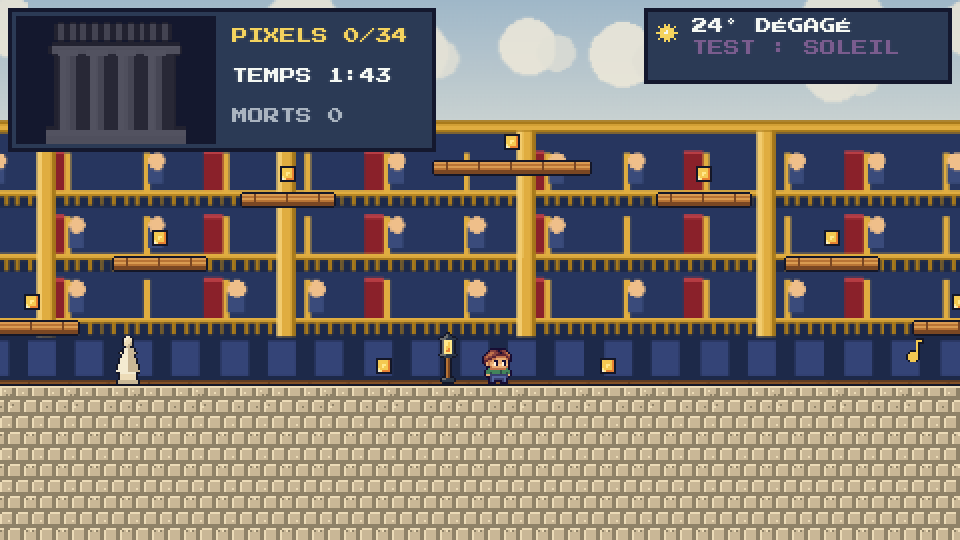
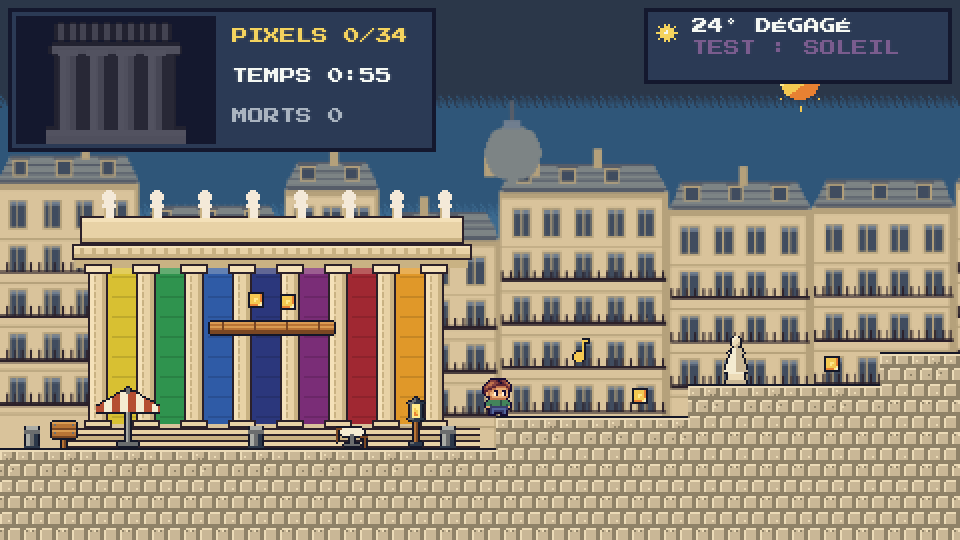
Pommeraye : boutiques (boulangerie, vêtements, chaussettes, chapeaux, sacs), tapis rouge, niveau inférieur sous les ouvertures ; Graslin : façade aux toiles colorées, fontaine, bornes, portes de l'Opéra

diff --git a/js/systems/LevelArt.js b/js/systems/LevelArt.js
@@ -587,7 +587,7 @@ GP.LevelArt = (function () {
    * murs ocre et verrière à nervures de métal tout en haut. Dessiné d'après des vues du passage consultées sur Wikipédia (référence uniquement).
    */
   function drawFondPommeraye() {
-    var w = 480, h = 236, o = PA.canvas(w, h), ctx = o.ctx, k = '#2b2230', i, x, n;
+    var w = 480, h = 272, o = PA.canvas(w, h), ctx = o.ctx, k = '#2b2230', i, x, n;
     var mur = '#d6ae6e', murO = '#b88c52', murC = '#e8c98c', arcO = '#6b4a2f', arcL = '#f4d9a0', fer = '#3b3040', pierre = '#eae6dc', pierreO = '#b8b2a4';
     R(ctx, 0, 0, w, h, mur);
     var verre = ctx.createLinearGradient(0, 0, 0, 38); verre.addColorStop(0, '#cfe6f6'); verre.addColorStop(1, '#a9cde6');
@@ -615,6 +615,9 @@ GP.LevelArt = (function () {
       R(ctx, 0, bot - 6, w, 2, k); for (x = 0; x < w; x += 6) R(ctx, x, bot - 12, 2, 6, fer);                  // balustrade de fer
       R(ctx, 0, bot - 12, w, 2, fer); R(ctx, 0, bot - 4, w, 4, murO);
     });
+    // niveau inférieur du passage, visible par les ouvertures du plancher : sol de dalles sombres, devantures éclairées et lampes
+    R(ctx, 0, 236, w, 36, '#4a2a22'); for (x = 0; x < w; x += 24) { R(ctx, x, 236, 12, 12, '#5d352b'); R(ctx, x + 12, 248, 12, 12, '#5d352b'); R(ctx, x, 260, 12, 12, '#5d352b'); }
+    R(ctx, 0, 234, w, 3, k); for (x = 12; x < w; x += 60) { R(ctx, x, 238, 26, 18, '#f4d9a0'); R(ctx, x, 238, 26, 3, '#c0453a'); R(ctx, x + 2, 244, 22, 10, '#fff3c8'); }   // vitrines allumées en contrebas
     return o.cv;
   }
   /** Façade d'immeuble (hôtel d'armateur de Feydeau, immeubles de la place Graslin) : pierre claire, fenêtres, balcons de fer, mascarons, toit d'ardoise à lucarnes. */
@@ -944,6 +947,64 @@ GP.LevelArt = (function () {
     R(ctx, 34, 13, 20, 3, '#6f7684'); R(ctx, 41, 14, 6, 2, k);                                                      // chariot du crochet
     return o.cv;
   }
+  /** Façade de boutique du passage (64×56) : auvent rayé, enseigne avec une icône, vitrine et porte. kind : 'boulangerie', 'chaussettes' ou 'sacs'. */
+  function drawBoutique(kind) {
+    var o = PA.canvas(64, 56), ctx = o.ctx, k = '#2b2230', i;
+    var C = { boulangerie: ['#c0453a', '#f4ecd0', '#8a5a30'], chaussettes: ['#3f62b8', '#f4f4fa', '#2f4a96'], sacs: ['#3f8a4f', '#f4ecd0', '#2e6a3a'], vetements: ['#8b4fb8', '#f4ecd0', '#5e3a8a'], chapeaux: ['#e8873a', '#f4f4fa', '#9a5a20'] }[kind];
+    R(ctx, 0, 0, 64, 56, k); R(ctx, 1, 1, 62, 55, '#e8d6a8');                                                     // cadre de pierre
+    R(ctx, 3, 3, 58, 11, C[2]); R(ctx, 3, 3, 58, 2, k); R(ctx, 3, 12, 58, 2, k);                                  // enseigne
+    if (kind === 'boulangerie') { R(ctx, 8, 6, 14, 4, '#e8b24a'); R(ctx, 8, 6, 14, 1, '#f4d060'); for (i = 0; i < 3; i++) R(ctx, 11 + i * 4, 7, 1, 2, '#8a5a30'); R(ctx, 32, 5, 4, 6, '#d89a4a'); R(ctx, 36, 6, 4, 5, '#e8b24a'); R(ctx, 40, 5, 4, 6, '#d89a4a'); }   // baguette et croissants
+    else if (kind === 'chaussettes') { [[10, '#c0453a'], [26, '#f4d35e'], [42, '#3fbfb0']].forEach(function (s) { R(ctx, s[0], 5, 4, 7, s[1]); R(ctx, s[0], 10, 8, 3, s[1]); R(ctx, s[0], 6, 4, 1, '#f4f4fa'); R(ctx, s[0], 8, 4, 1, '#f4f4fa'); }); }   // chaussettes rayées
+    else if (kind === 'vetements') { [[8, '#c0453a'], [26, '#3fbfb0'], [44, '#f4d35e']].forEach(function (s) { R(ctx, s[0], 5, 3, 3, s[1]); R(ctx, s[0] + 9, 5, 3, 3, s[1]); R(ctx, s[0] + 3, 6, 6, 6, s[1]); R(ctx, s[0] + 1, 8, 10, 1, '#f4f4fa'); }); }   // chemises et robes
+    else if (kind === 'chapeaux') { [[8, '#2b2e3a'], [27, '#c0453a'], [46, '#f4d35e']].forEach(function (s) { R(ctx, s[0] + 3, 4, 8, 5, s[1]); R(ctx, s[0], 9, 14, 2, s[1]); R(ctx, s[0] + 3, 8, 8, 1, '#f4f4fa'); }); }   // chapeaux
+    else { [[10, '#c0453a'], [28, '#f4d35e'], [46, '#3f62b8']].forEach(function (s) { R(ctx, s[0], 7, 9, 5, s[1]); R(ctx, s[0] + 2, 4, 1, 3, k); R(ctx, s[0] + 6, 4, 1, 3, k); R(ctx, s[0] + 2, 4, 5, 1, k); }); }   // sacs à main
+    for (i = 0; i < 8; i++) { R(ctx, 3 + i * 8, 14, 8, 8, i % 2 ? C[1] : C[0]); R(ctx, 3 + i * 8, 21, 8, 2, k); }   // auvent rayé
+    R(ctx, 5, 24, 36, 30, k); R(ctx, 6, 25, 34, 28, '#fff3c8'); R(ctx, 6, 25, 34, 3, '#fffbe8');                    // vitrine éclairée
+    if (kind === 'boulangerie') { for (i = 0; i < 4; i++) { R(ctx, 8 + i * 8, 38, 6, 3, '#c98a42'); R(ctx, 8 + i * 8, 37, 6, 1, '#e8b870'); } R(ctx, 7, 44, 32, 2, '#8a5a30'); for (i = 0; i < 5; i++) { R(ctx, 8 + i * 6, 40, 4, 4, '#d89a4a'); } }
+    else if (kind === 'vetements') { for (i = 0; i < 4; i++) { var vc = ['#c0453a', '#3fbfb0', '#f4d35e', '#8b6bb8'][i]; R(ctx, 9 + i * 8, 28, 2, 3, '#7a5a3a'); R(ctx, 8 + i * 8, 30, 4, 12, vc); R(ctx, 7 + i * 8, 40, 6, 6, vc); } R(ctx, 7, 46, 32, 2, '#8a5a30'); }   // mannequins en robes
+    else if (kind === 'chapeaux') { for (i = 0; i < 4; i++) { var hc = ['#2b2e3a', '#c0453a', '#3f62b8', '#f4d35e'][i]; R(ctx, 10 + i * 8, 34, 5, 4, hc); R(ctx, 8 + i * 8, 38, 9, 2, hc); R(ctx, 12 + i * 8, 40, 1, 6, '#7a5a3a'); } R(ctx, 7, 46, 32, 2, '#8a5a30'); }   // chapeaux sur des présentoirs
+    else if (kind === 'chaussettes') { for (i = 0; i < 5; i++) { var cc = ['#c0453a', '#3f62b8', '#f4d35e', '#3fbfb0', '#8b6bb8'][i]; R(ctx, 8 + i * 6, 30, 3, 8, cc); R(ctx, 8 + i * 6, 35, 5, 3, cc); } R(ctx, 7, 46, 32, 2, '#8a5a30'); }
+    else { for (i = 0; i < 4; i++) { var bc = ['#c0453a', '#3f62b8', '#f4d35e', '#8b6bb8'][i]; R(ctx, 8 + i * 8, 36, 7, 6, bc); R(ctx, 10 + i * 8, 33, 1, 3, k); R(ctx, 13 + i * 8, 33, 1, 3, k); R(ctx, 10 + i * 8, 33, 4, 1, k); } R(ctx, 7, 46, 32, 2, '#8a5a30'); }
+    R(ctx, 44, 24, 16, 32, k); R(ctx, 45, 25, 14, 30, '#6a4a2a'); R(ctx, 47, 27, 10, 12, '#9fc0e0'); R(ctx, 56, 42, 2, 2, '#f4d35e');   // porte vitrée et poignée
+    return o.cv;
+  }
+  /** Tapis rouge à liseré doré (16×4) posé sur le sol de la galerie. */
+  function drawTapisRouge() {
+    var o = PA.canvas(16, 4), ctx = o.ctx;
+    R(ctx, 0, 0, 16, 4, '#8a1f2b'); R(ctx, 0, 0, 16, 1, '#e0b64a'); R(ctx, 0, 3, 16, 1, '#6a1520'); R(ctx, 4, 1, 8, 1, '#a82a38');
+    return o.cv;
+  }
+  /** Portes du théâtre Graslin (64×64) : double porte de bois sombre sous un fronton doré aux deux masques, rideaux rouges de chaque côté. */
+  function drawPortesTheatre() {
+    var o = PA.canvas(64, 64), ctx = o.ctx, k = '#2b2230', or = '#e0b64a';
+    R(ctx, 0, 0, 64, 64, k); R(ctx, 1, 1, 62, 63, '#cfc7b2'); R(ctx, 3, 3, 58, 12, '#27396e'); R(ctx, 3, 3, 58, 2, or); R(ctx, 3, 13, 58, 2, or);       // fronton bleu et or
+    PA.disc(ctx, 22, 9, 4, '#f4e6b0'); PA.disc(ctx, 42, 9, 4, '#f4e6b0'); R(ctx, 20, 9, 1, 1, k); R(ctx, 24, 9, 1, 1, k); R(ctx, 40, 9, 1, 1, k); R(ctx, 44, 9, 1, 1, k); R(ctx, 21, 11, 3, 1, k); R(ctx, 41, 10, 3, 1, k);   // les deux masques
+    R(ctx, 6, 18, 14, 46, '#8a2331'); R(ctx, 44, 18, 14, 46, '#8a2331'); for (var i = 0; i < 4; i++) { R(ctx, 8 + i * 3, 18, 1, 46, '#a8404f'); R(ctx, 46 + i * 3, 18, 1, 46, '#a8404f'); }   // rideaux rouges
+    R(ctx, 20, 20, 24, 44, k); R(ctx, 21, 21, 11, 43, '#5a3820'); R(ctx, 32, 21, 11, 43, '#5a3820'); R(ctx, 30, 40, 2, 4, or); R(ctx, 33, 40, 2, 4, or); R(ctx, 23, 24, 6, 8, '#7a4e2a'); R(ctx, 35, 24, 6, 8, '#7a4e2a');   // double porte
+    return o.cv;
+  }
+  /**
+   * Façade du théâtre Graslin (208×132) : péristyle de huit colonnes corinthiennes, entablement, huit statues sur l'attique, et grandes toiles colorées tendues entre les colonnes
+   * (jaune, vert, bleu, violet, rouge…) comme sur les photos de la place. Dessinée d'après des photos (Wikimédia Commons), référence uniquement.
+   */
+  function drawFacadeGraslin() {
+    var o = PA.canvas(208, 132), ctx = o.ctx, k = '#2b2230', pierre = '#e8dcc0', pierreO = '#c9bb98', pierreC = '#f4ecd6', i, x, y;
+    var toiles = ['#d8c93a', '#2f9a5a', '#2f5fc0', '#2b3a90', '#7a2f8a', '#a02a3a', '#e0a030'];
+    R(ctx, 8, 14, 192, 14, k); R(ctx, 9, 15, 190, 12, pierre); R(ctx, 9, 15, 190, 2, pierreC); R(ctx, 9, 25, 190, 2, pierreO);                         // attique
+    for (i = 0; i < 8; i++) { var sx = 16 + i * 24; R(ctx, sx + 4, 4, 5, 11, '#f4f4fa'); PA.disc(ctx, sx + 6, 4, 3, '#f4f4fa'); R(ctx, sx + 3, 8, 7, 2, '#f4f4fa'); R(ctx, sx + 4, 10, 1, 5, pierreO); }   // huit Muses sur le toit
+    R(ctx, 4, 28, 200, 8, k); R(ctx, 5, 29, 198, 6, pierre); R(ctx, 5, 29, 198, 1, pierreC); R(ctx, 5, 33, 198, 2, pierreO);                         // entablement
+    for (x = 8; x < 200; x += 6) R(ctx, x, 30, 2, 3, pierreO);                                                                                          // denticules
+    R(ctx, 6, 36, 196, 4, pierreO);                                                                                                                        // architrave
+    for (i = 0; i < 7; i++) { var tx = 22 + i * 24; R(ctx, tx, 40, 20, 78, toiles[i]); R(ctx, tx, 40, 20, 3, 'rgba(255,255,255,0.25)'); for (y = 44; y < 118; y += 10) R(ctx, tx + 2, y, 16, 1, 'rgba(0,0,0,0.12)'); }   // toiles tendues
+    for (i = 0; i < 8; i++) {                                                                                                                           // huit colonnes corinthiennes
+      var cx = 12 + i * 24;
+      R(ctx, cx, 40, 10, 78, k); R(ctx, cx + 1, 40, 8, 78, pierre); R(ctx, cx + 1, 40, 2, 78, pierreC); R(ctx, cx + 7, 40, 2, 78, pierreO);
+      for (y = 44; y < 114; y += 4) R(ctx, cx + 3, y, 1, 3, pierreO);                                                                                  // cannelures
+      R(ctx, cx - 2, 38, 14, 5, k); R(ctx, cx - 1, 39, 12, 3, pierreC); R(ctx, cx - 2, 116, 14, 4, k); R(ctx, cx - 1, 117, 12, 2, pierre);          // chapiteau et base
+    }
+    for (i = 0; i < 4; i++) { R(ctx, 0, 120 + i * 3, 208, 3, i % 2 ? pierreO : pierre); R(ctx, 0, 120 + i * 3, 208, 1, k); }                              // marches
+    return o.cv;
+  }
   /** Note de musique lancée par les Muses du théâtre. */
   function drawNote() {
     var o = PA.canvas(10, 12), ctx = o.ctx, k = GP.PAL.k, y = GP.PAL.y;
@@ -1034,6 +1095,10 @@ GP.LevelArt = (function () {
     PA.toTexture(scene, 'lv_caisse_bananes', drawCaisseBananes());
     PA.toTexture(scene, 'lv_regime', drawRegime());
     PA.toTexture(scene, 'lv_peau', drawPeau());
+    PA.toTexture(scene, 'lv_facade_graslin', drawFacadeGraslin());
+    ['boulangerie', 'chaussettes', 'sacs', 'vetements', 'chapeaux'].forEach(function (b) { PA.toTexture(scene, 'lv_boutique_' + b, drawBoutique(b)); });
+    PA.toTexture(scene, 'lv_tapis_rouge', drawTapisRouge());
+    PA.toTexture(scene, 'lv_portes_theatre', drawPortesTheatre());
     PA.toTexture(scene, 'lv_fond_hangar_quai', drawFondHangarQuai());
     PA.toTexture(scene, 'lv_rails', drawRails());
     PA.toTexture(scene, 'lv_corten', drawCorten());

diff --git a/js/data/levels-ville.js b/js/data/levels-ville.js
@@ -84,6 +84,8 @@ GP.LEVELS['graslin'] = (function () {
     L.start(2);
     L.hint(3, 'LES MUSES LANCENT DES NOTES : ACCROUPIS-TOI OU SAUTE');
     L.deco(5, 'graslin_table_cafe', { depth: 4 }); L.deco(9, 'graslin_lampadaire_ornemente', { depth: 3 }); L.deco(29, 'graslin_table_cafe', { depth: 4 });
+    L.deco(12, 'lv_fountain', { depth: 3 });                                  // la fontaine de la place Graslin
+    [1, 4, 8, 15, 19, 26, 32].forEach(function (bx) { L.deco(bx, 'feydeau_bollard', { depth: 4 }); });   // les bornes noires du parvis
     L.muse(16, -1, 2800, 0);
     L.pix(6, 13); L.pix(13, 11); L.pix(17, 13);
     L.hint(20, 'LE PARASOL FAIT REBONDIR : SAUTE DESSUS');
@@ -97,6 +99,7 @@ GP.LEVELS['graslin'] = (function () {
     L.ground(52, 8, 7);
     L.check(54);
     L.hint(55, "DEUX VOLÉES SYMÉTRIQUES : CHOISIS TON CÔTÉ");
+    L.deco(56, 'lv_portes_theatre', { depth: 1 });                // les portes de l'Opéra Graslin : on entre dans le théâtre
     L.ground(60, 16, 5);                                    // volée basse : la plus sûre, une Muse la garde
     L.muse(70, -1, 2500, 900);
     L.pix(62, 11); L.pix(66, 11); L.pix(72, 11);
@@ -137,8 +140,8 @@ GP.LEVELS['graslin'] = (function () {
   };
   L.thornKey = 'graslin_obstacle_chaises'; L.thornText = 'AÏE, DES CHAISES RENVERSÉES !';
   L.sky = { farKey: 'lv_fond_graslin', farBottom: 236 };         // immeubles de la place, d'après des vues de Graslin
-  L.farSwitch = [[0, 'lv_fond_graslin'], [58, 'lv_fond_theatre', 'ON ENTRE DANS LE THÉÂTRE']];   // à l'intérieur (dès l'escalier d'honneur) : la salle bleue et or
-  L.backdrop = { x: 26, key: 'graslin_theatre_facade', scale: 1, tint: false };   // la façade à huit colonnes derrière le parvis
+  L.farSwitch = [[0, 'lv_fond_graslin'], [58, 'lv_fond_theatre', 'OPÉRA GRASLIN : ON ENTRE DANS LE THÉÂTRE']];   // à l'intérieur (dès l'escalier d'honneur) : la salle bleue et or
+  L.backdrop = { x: 27, key: 'lv_facade_graslin', scale: 1, tint: false };   // la façade à huit colonnes derrière le parvis
   L.wxm = { rain: { note: 0.75 }, sun: { beam: 1.25 }, wind: { spring: 1.1 } };
   L.weatherText = { rain: 'LA PLUIE ÉTOUFFE LES NOTES : PLUS LENTES', sun: 'LES PROJECTEURS BALAIENT PLUS VITE', wind: 'LE VENT GONFLE LES PARASOLS : REBOND PLUS HAUT' };
   return L;
@@ -469,9 +472,10 @@ GP.LEVELS['pommeraye'] = (function () {
     // 1. La galerie basse : des devantures, un premier lanterneau de verre
     L.ground(0, 40, 3);
     L.start(2);
+    for (var tx = 1; tx < 40; tx++) L.deco(tx, 'lv_tapis_rouge', { depth: 5, dy: 1 });                                   // tapis rouge de la galerie basse
     L.hint(3, "LE VERRE SE FISSURE : NE T'ARRÊTE PAS");
-    L.deco(6, 'pommeraye_devanture_a', { depth: 1 }); L.deco(14, 'pommeraye_devanture_b', { depth: 1 }); L.deco(24, 'pommeraye_devanture_a', { depth: 1 }); L.deco(36, 'pommeraye_devanture_b', { depth: 1 });
-    L.deco(10, 'pommeraye_pilier_galerie', { depth: 2 }); L.deco(30, 'pommeraye_pilier_galerie', { depth: 2 });
+    L.deco(3, 'lv_boutique_boulangerie', { depth: 1 }); L.deco(9, 'lv_boutique_vetements', { depth: 1 }); L.deco(18, 'lv_boutique_chaussettes', { depth: 1 }); L.deco(24, 'lv_boutique_chapeaux', { depth: 1 }); L.deco(30, 'lv_boutique_sacs', { depth: 1 }); L.deco(36, 'lv_boutique_vetements', { depth: 1 });   // les boutiques du passage
+    L.deco(12, 'pommeraye_pilier_galerie', { depth: 2 }); L.deco(21, 'pommeraye_pilier_galerie', { depth: 2 }); L.deco(27, 'pommeraye_pilier_galerie', { depth: 2 });
     L.pix(7, 13); L.pix(8, 13);
     L.glass(14, 12, 3); L.pix(15, 11);
     L.glass(20, 11, 3); L.pix(21, 10);
@@ -479,6 +483,7 @@ GP.LEVELS['pommeraye'] = (function () {
     L.check(32);
     // 2. Le grand escalier : quatre volées, des statues, un lustre qui balance
     L.ground(40, 8, 4); L.ground(48, 8, 5); L.ground(56, 8, 6); L.ground(64, 8, 7);
+    for (var sx = 40; sx < 72; sx++) L.deco(sx, 'lv_tapis_rouge', { depth: 5, dy: 1 });                              // tapis rouge sur les marches du grand escalier
     L.hint(41, 'LES LUSTRES BALANCENT : MONTE DESSUS');
     L.deco(52, 'pommeraye_statue', { depth: 3 }); L.deco(60, 'pommeraye_statue', { depth: 3 });
     L.mover(44, 10, 3, 4, 0, 3400);
@@ -490,11 +495,13 @@ GP.LEVELS['pommeraye'] = (function () {
     L.ground(64, 22, 7);
     L.hint(69, 'LES STATUES AVANCENT SI TU NE LES REGARDES PAS');
     L.patrol(72, 84, 'statue', 32);
-    L.deco(70, 'pommeraye_pilier_galerie', { depth: 2 }); L.deco(80, 'pommeraye_lustre', { depth: 3, dy: -64 });
+    L.deco(70, 'pommeraye_pilier_galerie', { depth: 2 }); L.deco(76, 'lv_boutique_sacs', { depth: 1 }); L.deco(82, 'lv_boutique_chapeaux', { depth: 1 }); L.deco(80, 'pommeraye_lustre', { depth: 3, dy: -64 });
     L.pix(74, 9); L.pix(80, 9);
     L.glass(87, 10, 3); L.glass(92, 10, 3);
     L.pix(88, 9); L.pix(93, 9);
     L.ground(96, 36, 7);
+    for (var mx = 97; mx < 131; mx++) L.deco(mx, 'lv_tapis_rouge', { depth: 5, dy: 1 });                                // tapis rouge de la mezzanine
+    L.deco(99, 'lv_boutique_vetements', { depth: 1 }); L.deco(105, 'lv_boutique_boulangerie', { depth: 1 }); L.deco(115, 'lv_boutique_chaussettes', { depth: 1 }); L.deco(121, 'lv_boutique_chapeaux', { depth: 1 }); L.deco(127, 'lv_boutique_sacs', { depth: 1 });
     L.check(98);
     L.patrol(106, 122, 'statue', 34);
     L.plat(104, 8, 3); L.pix(105, 7);
@@ -502,6 +509,7 @@ GP.LEVELS['pommeraye'] = (function () {
     L.pix(100, 9); L.pix(110, 9); L.pix(124, 9);
     // 4. Sous la verrière : on monte tout en haut, puis un dernier pont de verre
     L.ground(132, 6, 8); L.ground(138, 6, 9); L.ground(144, 6, 10); L.ground(150, 6, 11);
+    for (var ux = 132; ux < 156; ux++) L.deco(ux, 'lv_tapis_rouge', { depth: 5, dy: 1 });                              // tapis rouge sur la dernière montée
     L.check(134);
     L.gargoyle(100, 0, 2400); L.gargoyle(120, 0, 2000); L.gargoyle(140, 0, 2200); L.gargoyle(160, 0, 2600);   // vitres cassées de la verrière : l'eau goutte sous la pluie
     L.pix(135, 7); L.pix(141, 6); L.pix(147, 5); L.pix(152, 4);
@@ -519,7 +527,7 @@ GP.LEVELS['pommeraye'] = (function () {
     ledge: ['pommeraye_balcon_galerie_g', 'pommeraye_balcon_galerie_m', 'pommeraye_balcon_galerie_d'], mover: ['pommeraye_balcon_galerie_g', 'pommeraye_balcon_galerie_m', 'pommeraye_balcon_galerie_d']
   };
   L.thornKey = 'pommeraye_obstacle_grille_pointes'; L.thornText = 'AÏE, UNE GRILLE À POINTES !';
-  L.sky = { farKey: 'lv_fond_pommeraye', farBottom: 236 };        // galerie à trois niveaux et verrière, dessinée d'après des vues du passage
+  L.sky = { farKey: 'lv_fond_pommeraye', farBottom: 272 };        // galerie à trois niveaux et verrière, dessinée d'après des vues du passage
   L.gargoyleKey = 'lv_fuite'; L.rainOnly = true;   // la verrière laisse passer la pluie par ses vitres cassées
   L.wxm = { rain: { glass: 0.7 }, sun: { glassback: 0.6 } };
   L.weatherText = { rain: 'LA PLUIE FRAGILISE LE VERRE ET GOUTTE PAR LES VITRES CASSÉES', sun: 'LE SOLEIL RÉCHAUFFE LE VERRE : IL REVIENT VITE', wind: 'LE VENT SOUFFLE DANS LA VERRIÈRE' };

diff --git a/js/data/lang/en.js b/js/data/lang/en.js
@@ -129,7 +129,7 @@ GP.EN = {
     "LIS LA STÈLE, PUIS REJOUE-LA : BAS = FLÈCHE BAS, HAUT = SAUT": "READ THE STELE, THEN REPLAY IT: DOWN = DOWN ARROW, UP = JUMP",
     "DES HÉRONS PLONGENT : ATTENDS QU'ILS REMONTENT": "HERONS DIVE: WAIT FOR THEM TO RISE",
     "UN HÉRON T'A ATTRAPÉ !": "A HERON CAUGHT YOU!",
-    "ON ENTRE DANS LE THÉÂTRE": "WE ENTER THE THEATRE",
+    "OPÉRA GRASLIN : ON ENTRE DANS LE THÉÂTRE": "GRASLIN OPERA HOUSE: WE ENTER THE THEATRE",
     "LES RÉGIMES SE BALANCENT : ACCROUPIS-TOI AU BON MOMENT": "THE BANANA BUNCHES SWING: CROUCH AT THE RIGHT MOMENT",
     "DES CAISSES DE BANANES TOMBENT : L'OMBRE PRÉVIENT": "BANANA CRATES FALL: THE SHADOW WARNS YOU",
     "UNE CAISSE DE BANANES T'A ÉCRASÉ !": "A BANANA CRATE CRUSHED YOU!",

diff --git a/CREDITS.md b/CREDITS.md
@@ -47,6 +47,6 @@ Les photos de repérage de la gare de Nantes et du Jardin des Plantes (arrêt de
 Les **topiaires** et le personnage en bois du jardin sont des œuvres d'artistes vivants, protégées : le jeu les évoque par des formes génériques (butte de feuillage arrondie, silhouette de bois simple) **sans les copier**.
 **Silhouettes du niveau 1** (`lv_sil_orange`, `lv_sil_jaune`, `lv_sil_ruban`, `lv_sil_oiseau`) : dessins originaux de l'équipe, en pixel art, **inspirés** des sculptures colorées installées au Jardin des Plantes (personnages de **Jean Jullien**, oiseau en topiaire évoquant l'univers de **Claude Ponti**). Ce sont des formes très simplifiées, redessinées de zéro : aucune photo ni aucune image des œuvres n'est reprise ni intégrée. Ces rapprochements (artistes, titres exacts des œuvres) sont à confirmer dans `docs/sources.md` avant la présentation.
 **Fond et salles du Château** (`lv_fond_chateau`, `lv_salle_herses`, `lv_salle_gardes`) : dessinés par code, d'après des descriptions de l'architecture du château (Wikipédia) et des vues consultées sur Wikimedia Commons, utilisées comme **référence de dessin uniquement** : aucune image n'est téléchargée ni intégrée.
-**Niveaux 4 à 12** (Île Feydeau, Place Graslin, Machines de l'île, Parc des Chantiers, Anneaux de Buren, Hangar à Bananes, Mémorial, Passage Pommeraye, Tour LU) : décors tirés des planches de sprites existantes (voir « Sprites de décor ») ; les personnages et accessoires ajoutés (esprit de la garde, petit robot, note de musique, conteneur, rideau, tapis roulant) et le dessin de la Tour LU et de sa coupole (forme générale uniquement) sont des dessins originaux de l'équipe, générés par code (`js/systems/LevelArt.js`), sans source externe. Les fonds de Feydeau (hôtels d'armateurs), de Graslin (immeubles de la place), de la Tour LU (ancienne biscuiterie) et du Passage Pommeraye (`lv_fond_feydeau`, `lv_fond_graslin`, `lv_fond_lu`, `lv_fond_pommeraye`) est dessiné par code d'après des vues du passage consultées sur Wikipédia (**référence de dessin uniquement**). Le fond de la nef de la Cathédrale (`lv_fond_nef` : vitraux, rosace, piliers) et les bancs d'église (`lv_banc_eglise`) sont dessinés par code d'après des vues de l'intérieur (référence de dessin uniquement). Le fond du niveau des Machines de l'île (`lv_fond_hangar` : la Galerie des Machines, verrière à treillis et portiques de béton) est dessiné par code d'après des photos de Wikimédia Commons (référence de dessin uniquement). Les machines du niveau des Machines de l'île (`lv_elephant`, `lv_carrousel`, `lv_arbre_herons`, `lv_gardienne`) sont des dessins originaux en pixel art, inspirés de photos de Wikimédia Commons (Grand Éléphant, Carrousel des Mondes Marins, Arbre aux Hérons, La Gardienne des Ténèbres) : **référence de dessin uniquement**, aucune image reprise ; ces œuvres sont celles de La Machine / Les Machines de l'île (François Delarozière, Pierre Orefice). Le fond du niveau du Hangar à Bananes (`lv_fond_hangar_quai`, rails, garde-corps corten, flèche de grue) est dessiné par code d'après des photos du quai des Antilles sur Wikimédia Commons (référence de dessin uniquement). La peau de banane du Hangar est un dessin original, inspiré de la banane des jeux Mario Kart (forme générale et couleurs seulement, rien n'est repris). Les petits-beurres, le bitume, les panneaux de rue, les feux et l'abribus du niveau de la Tour LU (`lv_pb_*`, `lv_bit_*`, `lv_pan_*`, `lv_feu`, `lv_abribus`, `lv_fond_quartier`) sont des dessins originaux en pixel art ; les panneaux suivent le code de la route de façon très simplifiée, sans reprise du graphisme de la marque LU. Les mécaniques (marée, projecteurs, anneaux, pourriture…) sont codées dans `js/systems/Dangers.js`. Les anneaux de Buren s'inspirent de l'œuvre *Les Anneaux* de Daniel Buren (Quai des Antilles) par une forme générique, sans reproduire l'œuvre ; l'éléphant et les machines évoquent les Machines de l'île sans reprendre leurs dessins.
+**Niveaux 4 à 12** (Île Feydeau, Place Graslin, Machines de l'île, Parc des Chantiers, Anneaux de Buren, Hangar à Bananes, Mémorial, Passage Pommeraye, Tour LU) : décors tirés des planches de sprites existantes (voir « Sprites de décor ») ; les personnages et accessoires ajoutés (esprit de la garde, petit robot, note de musique, conteneur, rideau, tapis roulant) et le dessin de la Tour LU et de sa coupole (forme générale uniquement) sont des dessins originaux de l'équipe, générés par code (`js/systems/LevelArt.js`), sans source externe. Les fonds de Feydeau (hôtels d'armateurs), de Graslin (immeubles de la place), de la Tour LU (ancienne biscuiterie) et du Passage Pommeraye (`lv_fond_feydeau`, `lv_fond_graslin`, `lv_fond_lu`, `lv_fond_pommeraye`) est dessiné par code d'après des vues du passage consultées sur Wikipédia (**référence de dessin uniquement**). Le fond de la nef de la Cathédrale (`lv_fond_nef` : vitraux, rosace, piliers) et les bancs d'église (`lv_banc_eglise`) sont dessinés par code d'après des vues de l'intérieur (référence de dessin uniquement). Le fond du niveau des Machines de l'île (`lv_fond_hangar` : la Galerie des Machines, verrière à treillis et portiques de béton) est dessiné par code d'après des photos de Wikimédia Commons (référence de dessin uniquement). Les machines du niveau des Machines de l'île (`lv_elephant`, `lv_carrousel`, `lv_arbre_herons`, `lv_gardienne`) sont des dessins originaux en pixel art, inspirés de photos de Wikimédia Commons (Grand Éléphant, Carrousel des Mondes Marins, Arbre aux Hérons, La Gardienne des Ténèbres) : **référence de dessin uniquement**, aucune image reprise ; ces œuvres sont celles de La Machine / Les Machines de l'île (François Delarozière, Pierre Orefice). Le fond du niveau du Hangar à Bananes (`lv_fond_hangar_quai`, rails, garde-corps corten, flèche de grue) est dessiné par code d'après des photos du quai des Antilles sur Wikimédia Commons (référence de dessin uniquement). La peau de banane du Hangar est un dessin original, inspiré de la banane des jeux Mario Kart (forme générale et couleurs seulement, rien n'est repris). La façade du théâtre Graslin (`lv_facade_graslin`) est dessinée par code d'après des photos de la place sur Wikimédia Commons (référence de dessin uniquement). Les petits-beurres, le bitume, les panneaux de rue, les feux et l'abribus du niveau de la Tour LU (`lv_pb_*`, `lv_bit_*`, `lv_pan_*`, `lv_feu`, `lv_abribus`, `lv_fond_quartier`) sont des dessins originaux en pixel art ; les panneaux suivent le code de la route de façon très simplifiée, sans reprise du graphisme de la marque LU. Les mécaniques (marée, projecteurs, anneaux, pourriture…) sont codées dans `js/systems/Dangers.js`. Les anneaux de Buren s'inspirent de l'œuvre *Les Anneaux* de Daniel Buren (Quai des Antilles) par une forme générique, sans reproduire l'œuvre ; l'éléphant et les machines évoquent les Machines de l'île sans reprendre leurs dessins.
 **Personnages des anecdotes** (carte du monde, `GP.Scenes.Map.personKey`) : même sprite que l'avatar du joueur (`GP.Character`) avec des accessoires dessinés par code, d'après des portraits et photos d'époque vus sur Wikipédia/Wikimédia Commons (Anne de Bretagne, Jean-Joseph-Louis Graslin, Louis Lefèvre-Utile, Jules Verne : couleurs et silhouette uniquement, **référence de dessin, aucune image reprise**) ; les anecdotes sont des textes reformulés par l'équipe à partir des sources patrimoniales listées dans `docs/sources.md`.
 Les captures de référence fournies (cartes de monde et niveaux de jeux de plateforme, jeux en vue de dessus, planches de touches de clavier) ont servi **d'inspiration uniquement** : aucun élément n'en est repris. Certaines portent des filigranes de banques d'images : elles ne sont ni intégrées au jeu ni diffusées.

diff --git a/docs/carnet-de-bord.md b/docs/carnet-de-bord.md
@@ -61,6 +61,8 @@
 **Machines de l'île et Cathédrale (retours)** : les Machines montrent en décor le Carrousel des Mondes Marins, l'Arbre aux Hérons (avec son héron), la Gardienne des Ténèbres (l'« araignée » : buste de femme en bronze sur un corps d'araignée d'acier) et le Grand Éléphant, dessinés par code d'après des photos de Wikimédia Commons. Cathédrale : les gargouilles (statues dans le vide) sont remplacées par des **fissures de la voûte** qui suintent et laissent tomber des gouttes, sous une arche de pierre en haut de l'écran.
 **Machines : sans tapis roulants, araignées suspendues** : les tapis roulants sont retirés du niveau ; des araignées descendent du plafond au bout d'un fil quand le joueur ne les regarde pas (elles se figent s'il les regarde, remontent s'il s'éloigne ; accroupi, on passe dessous). Vérifié par script.
 **Machines : vrai hangar, sans vent** : le fond reproduit la Galerie des Machines (verrière à treillis d'acier, portiques de béton gris, arbres au fond, plancher clair), d'après des photos de Wikimédia Commons ; l'effet du vent (tapis plus vifs) est retiré : le niveau garde la pluie (jets plus courts) et le soleil (araignées plus rapides). Le carrousel, l'arbre aux hérons, la gardienne et l'éléphant sont toujours là.
+**Place Graslin d'après la photo, Pommeraye plus commerçant** : la façade du théâtre est redessinée comme sur les photos de la place : péristyle de huit colonnes corinthiennes, huit Muses sur le toit et **grandes toiles colorées** tendues entre les colonnes (jaune, vert, bleu, violet, rouge, orange) ; la **fontaine** et les **bornes noires** du parvis sont ajoutées. Au Passage Pommeraye : cinq types de boutiques (boulangerie, vêtements, chaussettes, chapeaux, maroquinerie), une quinzaine en tout, et le tapis rouge court aussi sur les marches du grand escalier et de la dernière montée.
+**Pommeraye plus réaliste, Graslin plus lisible** (retours après la planche des 12 niveaux) : au Passage Pommeraye, les ouvertures du plancher ne montrent plus du ciel et de l'eau mais le **niveau inférieur du passage** (sol de dalles sombres, vitrines éclairées) ; des **boutiques** (boulangerie, magasin de chaussettes, maroquinerie aux sacs) remplacent les devantures génériques, et un **tapis rouge** à liseré doré court le long de la galerie basse et de la mezzanine. À Graslin, de vraies **portes de l'Opéra** (fronton bleu et or aux deux masques, rideaux rouges) marquent l'entrée, avec le message « OPÉRA GRASLIN : ON ENTRE DANS LE THÉÂTRE » quand le décor change. Le nom du lieu s'affiche déjà au début de chaque niveau (« ÉTAPE nn · NOM ») pendant environ 2 secondes.
 **Hangar : les caisses de bananes deviennent un système** (retour de l'équipe) : plus de bananes au sol (le code des peaux est conservé mais plus utilisé) ; les caisses forment un **escalier** (piles de 1, 2, 3, 2, 1 caisses, le dessus de chaque pile est une plateforme, avec des pixels dessus) et la **grue du quai porte deux caisses** qui traversent un vide (`L.caisse`, `L.crane` avec le sprite de la caisse) ; les caisses qui tombent restent en fin de niveau. Vérifié par script : un joueur automatique monte au-dessus de la plus haute pile et passe le vide ; non rejoué à la main.
 **Peau de banane façon Mario Kart** (retour : « même DA que Mario ») : d'après le site Super Mario Wiki (référence de dessin uniquement), une banane jaune bien ronde, dressée, au bout brun, dont la peau s'ouvre en trois pans crème au pied ; les caisses de bananes sont gardées telles quelles ; les quatre variantes proposées sont supprimées.
 **Caisses posées au sol** : l'objet qui tombe (caisse, conteneur) se pose sur la dernière ligne réellement dessinée de son image, sans espace sous le dessin. 
